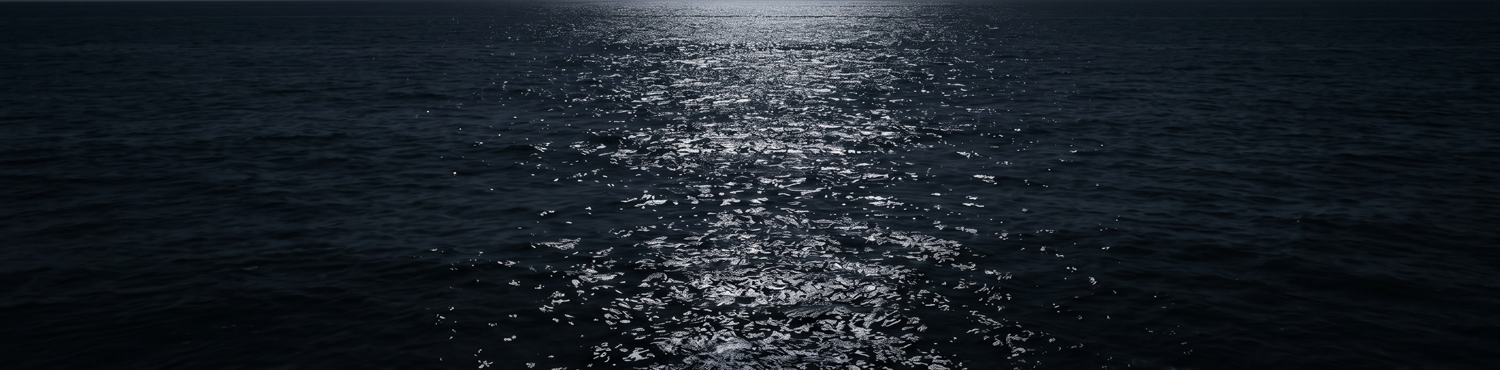
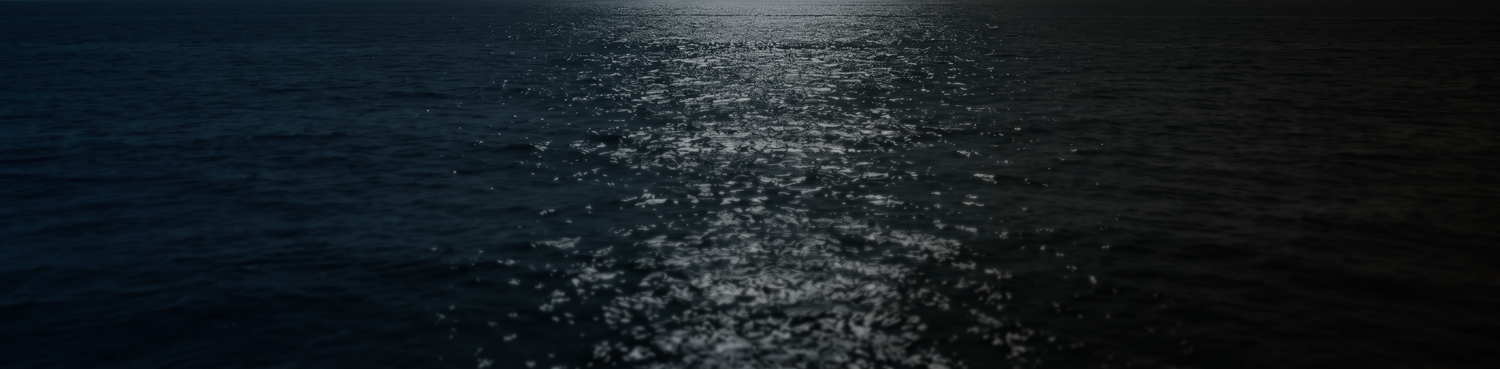
adjusting parralax elements. 1

diff --git a/app/components/pages/landing/HeroParallax.vue b/app/components/pages/landing/HeroParallax.vue
@@ -31,7 +31,17 @@ const voidOpacity = computed(() => Math.min(y.value / 600, 1))
         </div>
         
         <!-- Moon scaled massively and raised dynamically per breakpoint to keep ~20% intersecting the horizon -->
-        <img src="/images/hero_layers/moon.png" class="absolute left-1/2 w-[36rem] md:w-[48rem] top-[10%] sm:top-0 md:-top-[15%] lg:-top-[20%] xl:-top-[25%] -translate-x-1/2 z-20" :style="{ transform: backgroundTransform }" alt="Moon" />
+        <div class="absolute left-1/2 w-[20rem] md:w-[28rem] top-[20%] sm:top-[10%] md:-top-[5%] lg:-top-[10%] xl:-top-[15%] -translate-x-1/2 z-20" :style="{ transform: backgroundTransform }">
+          <!-- The spherical ambient glow behind the moon -->
+          <div class="absolute -inset-8 md:-inset-16 rounded-full bg-cyan-100/40 blur-[80px] md:blur-[120px]"></div>
+          <div class="absolute inset-0 rounded-full bg-white/70 blur-3xl"></div>
+          
+          <img src="/images/hero_layers/moon.png" class="relative w-full block z-10" alt="Moon" />
+        </div>
+
+        <!-- Distant clouds rising from the sea horizon, layered in front of the moon -->
+        <img src="/images/hero_layers/cloud_2.png" class="absolute left-0 w-full max-w-none bottom-[40%] md:bottom-[45%] object-cover object-bottom z-[21] opacity-30" :style="{ transform: backgroundTransform }" alt="Cloud 2" />
+        <img src="/images/hero_layers/cloud_1.png" class="absolute left-0 w-full max-w-none bottom-[35%] md:bottom-[40%] object-cover object-bottom z-[22] opacity-30" :style="{ transform: backgroundTransform }" alt="Cloud 1" />
 
         <img src="/images/hero_layers/sea.png" class="absolute bottom-0 left-0 w-full h-[45%] object-cover object-top z-30" :style="{ transform: backgroundTransform }" alt="Sea" />
         
@@ -57,7 +67,7 @@ const voidOpacity = computed(() => Math.min(y.value / 600, 1))
           <div class="absolute bottom-0 left-0 w-full h-[25%] bg-gradient-to-t from-black to-transparent pointer-events-none"></div>
           
           <!-- The infinite black bleed anchored underneath the rock -->
-          <div class="absolute inset-0 bg-gradient-to-t from-black via-black/80 to-transparent"></div>
+          <div class="absolute top-full left-0 w-full h-[200vh] bg-black"></div>
         </div>
 
         <!-- Ultra-minimal tech HUD targeting system aimed strictly at the core of the moon (z-60 lifts them above rocks) -->
